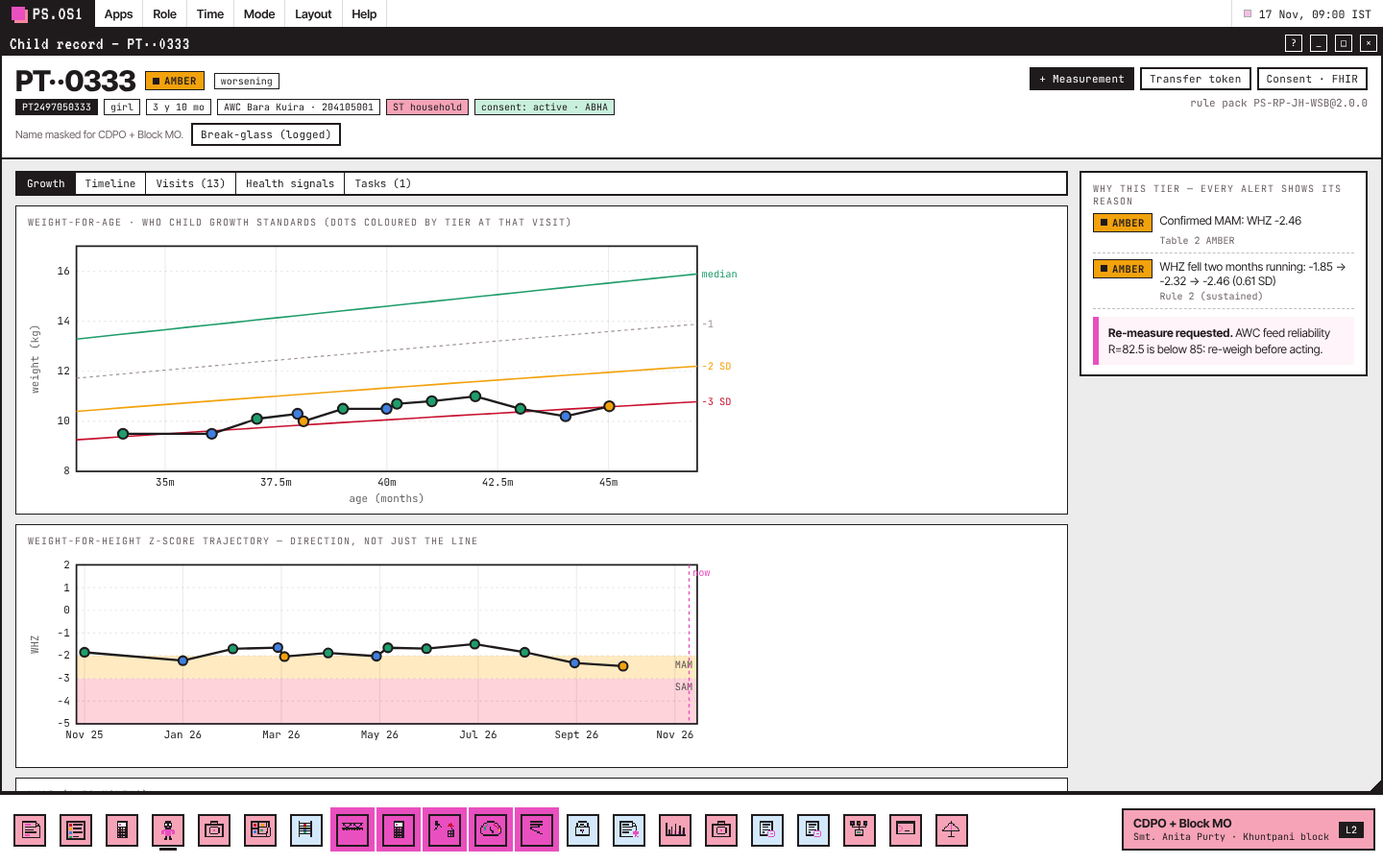
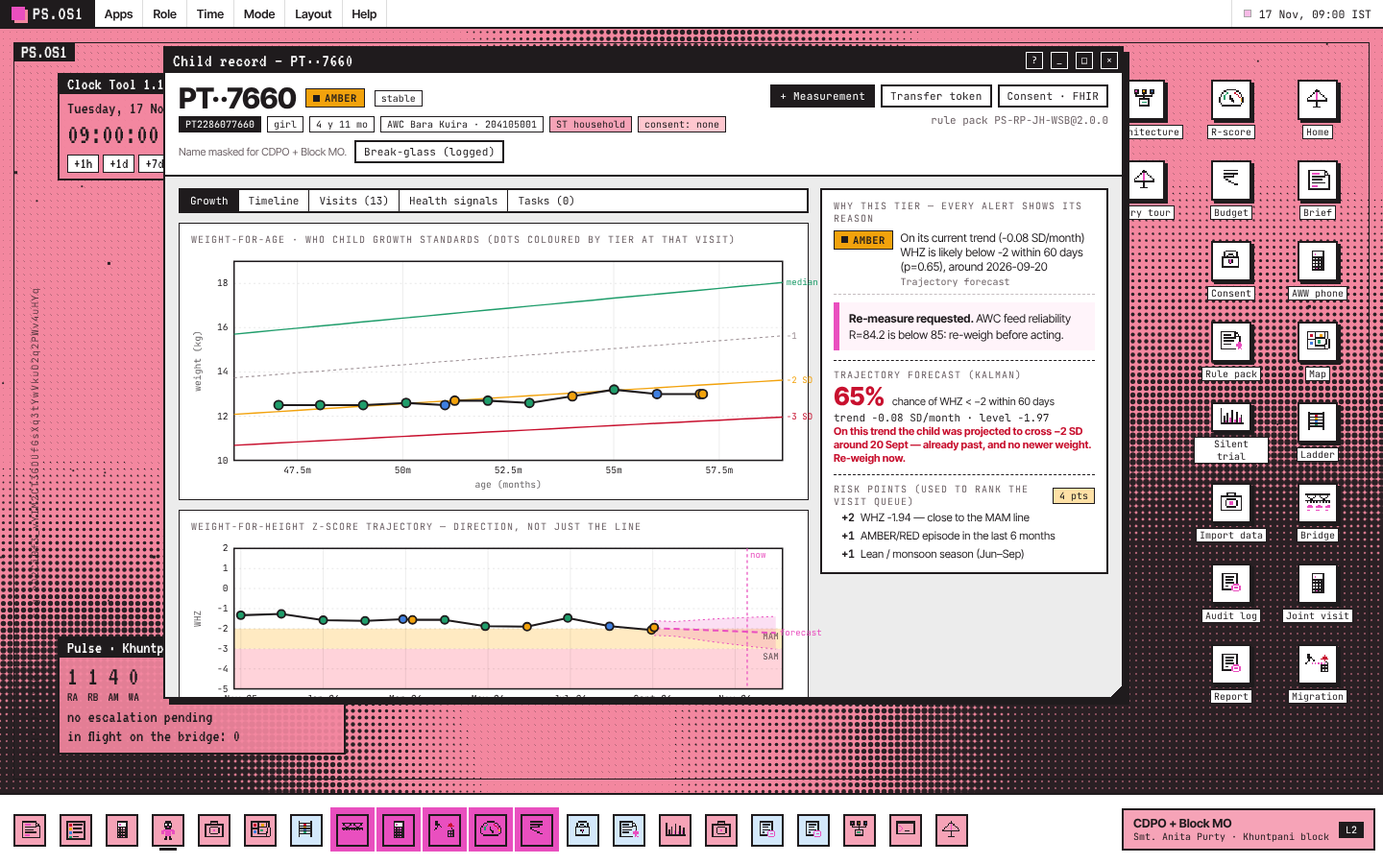
Docs + polish: refreshed numbers (6 seeds), Round 2 depth Q&A, README windows/engine/limits, new screenshots; readable ABDM sequence diagram
Claude-Session: https://claude.ai/code/session_01H5NQY22v1egzwKcLKCXRGs

diff --git a/app/ui/apps/consent.js b/app/ui/apps/consent.js
@@ -14,7 +14,7 @@ export function jsonView(obj) {
     .replace(/("(?:[^"\\]|\\.)*")(\s*:)/g, '<span style="color:#e94fbf">$1</span>$2')
     .replace(/: ("(?:[^"\\]|\\.)*")/g, ': <span style="color:#9fe0b8">$1</span>')
     .replace(/: (-?\d+\.?\d*|true|false|null)/g, ': <span style="color:#ffd27a">$1</span>');
-  return h('pre', { html, style: { margin: 0, padding: '10px', background: 'var(--ink)', color: '#f2eef0', fontFamily: 'var(--font-mono)', fontSize: '11px', lineHeight: 1.45, overflow: 'auto', maxHeight: '100%' } });
+  return h('pre', { html, style: { margin: 0, padding: '10px', background: 'var(--ink)', color: '#f2eef0', fontFamily: 'var(--font-mono)', fontSize: '11px', lineHeight: 1.45, overflow: 'auto', maxHeight: '100%', whiteSpace: 'pre-wrap', overflowWrap: 'anywhere' } });
 }
 
 const DPDP = [
@@ -91,17 +91,17 @@ export default {
         h('button.btn.sm.ghost', { disabled: hieBusy, onclick: () => runHie(c, false) }, 'Guardian denies'),
         h('span.small', null, 'v0.5 gateway shapes · X25519 ECDH + HKDF-SHA256 + AES-256-GCM (Fidelius-style) · simulated network, real crypto'));
       if (!hie || hie.childId !== c.id) return h('div', null, top, h('div.empty', null, 'Run the exchange to see every message between PoshanSetu, the consent manager, the guardian and U-WIN.'));
-      const W = 760, rowH = 26, H = 50 + hie.log.length * rowH;
-      const X = (l) => 90 + lanes.indexOf(l) * ((W - 140) / 3);
+      const W = 600, rowH = 26, H = 50 + hie.log.length * rowH;
+      const X = (l) => 66 + lanes.indexOf(l) * ((W - 132) / 3);
       const svg = s('svg', { viewBox: `0 0 ${W} ${H}`, width: '100%', style: 'display:block;max-width:900px;font-family:var(--font-mono)' });
       svg.append(s('defs', null, s('marker', { id: 'ha', viewBox: '0 0 10 10', refX: 9, refY: 5, markerWidth: 6, markerHeight: 6, orient: 'auto' }, s('path', { d: 'M0,0 L10,5 L0,10 z', fill: '#1f1b1d' }))));
-      for (const l of lanes) { svg.append(s('rect', { x: X(l) - 70, y: 4, width: 140, height: 26, fill: l === 'HIU' ? '#e94fbf' : '#1f1b1d' }), s('text', { x: X(l), y: 21, 'text-anchor': 'middle', 'font-size': 10, fill: '#fff' }, laneName[l]), s('line', { x1: X(l), x2: X(l), y1: 30, y2: H, stroke: '#1f1b1d', 'stroke-dasharray': '3 3', 'stroke-opacity': 0.4 })); }
+      for (const l of lanes) { svg.append(s('rect', { x: X(l) - 62, y: 4, width: 124, height: 26, fill: l === 'HIU' ? '#e94fbf' : '#1f1b1d' }), s('text', { x: X(l), y: 21, 'text-anchor': 'middle', 'font-size': 9.5, fill: '#fff' }, laneName[l]), s('line', { x1: X(l), x2: X(l), y1: 30, y2: H, stroke: '#1f1b1d', 'stroke-dasharray': '3 3', 'stroke-opacity': 0.4 })); }
       hie.log.forEach((m, i) => {
         const y = 48 + i * rowH, x1 = X(m.from), x2 = X(m.to);
         const g = s('g', { style: 'cursor:pointer' });
         g.append(s('rect', { x: Math.min(x1, x2) - 4, y: y - 14, width: Math.abs(x2 - x1) + 8, height: 22, fill: i === hieSel ? '#d3e8fb' : 'transparent' }));
         g.append(s('line', { x1, x2: x2 + (x2 > x1 ? -4 : 4), y1: y, y2: y, stroke: m.api.includes('transfer') ? '#e94fbf' : '#1f1b1d', 'stroke-width': m.api.includes('transfer') ? 3 : 1.5, 'marker-end': 'url(#ha)' }));
-        g.append(s('text', { x: (x1 + x2) / 2, y: y - 4, 'text-anchor': 'middle', 'font-size': 9.5 }, `${m.seq}. ${m.api.replace('POST ', '')}`));
+        g.append(s('text', { x: Math.min(x1, x2) + 8, y: y - 4, 'text-anchor': 'start', 'font-size': 9.5, stroke: '#fff', 'stroke-width': 3, 'paint-order': 'stroke', 'stroke-linejoin': 'round' }, `${m.seq}. ${m.api.replace('POST ', '')}`));
         g.addEventListener('click', () => { hieSel = i; render(); });
         svg.append(g);
       });

diff --git a/README.md b/README.md
@@ -15,6 +15,8 @@ This repository is a working prototype of the Round 1 proposal. It also answers,
 | ![Fix 03 Migration](docs/screens/migration.png) **Fix 03** kiln-proof token | ![Fix 04 R-score](docs/screens/reliability.png) **Fix 04** weighted R-score |
 | ![Fix 05 Budget](docs/screens/budget.png) **Fix 05** honest cost model | ![Silent trial](docs/screens/trial.png) Silent-trial backtest |
 | ![Child record](docs/screens/child.png) Child record | ![Jury tour](docs/screens/tour.png) Jury tour presenter mode |
+| ![Trade-off curve](docs/screens/tradeoff.png) Precision–detection trade-off curve | ![ABDM exchange](docs/screens/hie.png) ABDM HIE consent + encrypted transfer |
+| ![Made it smarter](docs/screens/smarter.png) Round 2 depth, each card opens its proof | ![AWW app](docs/screens/pwa.png) Hindi-first offline AWW app (PWA) |
 
 ---
 
@@ -37,6 +39,18 @@ npm test             # engine tests (WHO z-scores, rules, closure, escalation, t
 ```
 
 ```bash
+npm run typecheck    # TypeScript checks the engine's JSDoc types (no build step)
+```
+
+```bash
+npm run pwa          # companion service + AWW phone app at http://<LAN-IP>:8080/pwa/ (open on a phone on the same Wi-Fi)
+```
+
+```bash
+npm run build:tradeoff   # re-run the threshold sweep and ablation behind the Trade-off curve (3 seeds)
+```
+
+```bash
 npm run smoke        # with `npm run serve` running: every window × every role + live interactions in Chromium
 ```
 
@@ -44,13 +58,15 @@ npm run smoke        # with `npm run serve` running: every window × every role 
 npm run dist:win     # Windows x64 folder build in dist/ (also dist:linux, dist:mac)
 ```
 
+CI runs the type check, the tests and the Chromium smoke test on every push. Pushing a `v*` tag builds the Windows package on GitHub Actions and attaches the zip to the release (`.github/workflows/windows.yml`).
+
 On Windows, after `npm run dist:win`, double-click `dist\PoshanSetu-win32-x64\PoshanSetu.exe`. Copy that whole folder to the presentation laptop; it runs fully offline. The app adds `--no-sandbox` by itself when started as root on Linux.
 
 Deep links: `#worklist`, `#bridge`, `#joint`, `#migration`, `#reliability`, `#budget`, `#trial`, `#arch`, or `#jury` for presenter mode.
 
 ## The 10-minute presentation: Jury tour
 
-Open **Layout → Jury tour** (or press `j`). It has 12 steps with timings and talking points on a caption bar. Use `→` / `←` to move. Each step opens the right window, sets the role and, where needed, runs the live demo (a RED-A event crossing the bridge).
+Open **Layout → Jury tour** (or press `j`). It has 16 steps with timings and talking points on a caption bar. Use `→` / `←` to move. Each step opens the right window, sets the role and, where needed, runs the live demo (a RED-A event crossing the bridge).
 
 ## What is in the box
 
@@ -58,23 +74,24 @@ Open **Layout → Jury tour** (or press `j`). It has 12 steps with timings and t
 |---|---|---|
 | **Home** | Landing page, live silent-trial numbers, the five fixes | — |
 | **Brief** | Round 2 storyline: problem (cited figures), ecosystem table, stakeholder personas, roadmap Gantt + feasibility, Table 5 impact | sections 1–6 |
-| **Worklist** | Role-scoped tasks: tier, reason, event-time clock, escalation level, two-role closure, queue, late-arrival and re-measure flags | 4.4, 4.6 |
-| **Child record** | WHO weight-for-age curves, WHZ trajectory, MUAC, "why this tier", visits with ingest lag, consented vs withheld signals, break-glass | 4.2–4.4 |
+| **Worklist** | Role-scoped tasks: tier, reason, event-time clock, escalation level, two-role closure, **risk-ranked queue** (explainable risk points), late-arrival and re-measure flags, CSV export; aggregate-only for DPO | 4.4, 4.6 |
+| **Child record** | WHO weight-for-age curves, WHZ trajectory with a **Kalman forecast cone** (P(WHZ < −2 in 60 days)), risk points, timeline, MUAC, "why this tier", visits with ingest lag, consented vs withheld signals, break-glass | 4.2–4.4 |
+| **AWW app (PWA)** | `app/pwa/`: installable, offline, **Hindi-first** phone app running the same engine: today's visits, weigh with live tier, reasons in Hindi, idempotent sync to the service (`POST /v1/device/events`). Opens from Home → "Then we made it smarter" | audit 1, 4.2 |
 | **AWW phone** | Offline-first device: queue measurements with no signal, sync later — clocks still count from measurement; late data escalates on arrival | audit 1 |
 | **Capture** | AWW entry with live preview of the rule outcome and entry-time validation (decimal-slip demo) | 4.2, 4.7 |
 | **Map** | District → block → AWC, worst open task tier, reliability flags, k-anonymity above block | 4.6 |
 | **Ladder** | Table 3 as code: L0 AWW/ASHA → L1 Mukhya Sevika → L2 CDPO+BMO → L3 DPO+CMO | 4.6 |
 | **Bridge** | **Fix 01:** event bridge vs batch exports, clock-safety matrix, counterfactual replay, live in-flight events | audit 1 |
-| **Joint visit** | **Fix 02:** asynchronous AWW + ASHA closure state machine, visit-window timeline, feature-phone IVR (DTMF 1–4; Hindi, English, Santali, Ho, Mundari) | audit 2 |
+| **Joint visit** | **Fix 02:** asynchronous AWW + ASHA closure state machine, visit-window timeline, feature-phone IVR (DTMF 1–4) with **recorded Hindi prompts** (`app/assets/ivr/`); Santali, Ho and Mundari await native speakers | audit 2 |
 | **Migration** | **Fix 03:** Ed25519 transfer token (QR + IVR short code) verified offline, tamper test, kiln scenario fallback ladder, Aadhaar eKYC / Face RD lookup, k-anonymous route notice | audit 3 |
 | **R-score** | **Fix 04:** risk-weighted reliability vs the Round 1 equal-weight formula, calibration sliders, digit histograms, chronic-D logic | audit 4 |
 | **Budget** | **Fix 05:** Rs 33 L pilot, what Rs 12 L actually buys, reuse of DPI blocks, per-child cost vs scale, Phase 3 capex line | audit 5 |
-| **Consent** | ABDM consent artefacts, NDGFP flag dictionary, DPDP timeline, revoke/renew with live re-triage, FHIR R4 bundle | 4.3, 4.7 |
+| **Consent** | ABDM consent artefacts, **HIE exchange in real ABDM v0.5 message shapes** (consent-requests/init → hip/notify → health-information/request → X25519 + HKDF + AES-GCM transfer → notify), NDGFP flag dictionary, DPDP timeline, revoke/renew with live re-triage, FHIR R4 bundle | 4.3, 4.7 |
 | **Rule pack** | Dual-signed (MoWCD + MoHFW) versioned pack, calibration sliders, re-run the whole backtest, sign the draft as each ministry | design choice 5 |
-| **Trial** | Silent-trial backtest: share of SAM flagged earlier, lead-time distribution, precision, a worked example | design choice 2, Table 5 |
+| **Trial** | Silent-trial backtest: share of SAM flagged earlier, lead-time distribution, precision, a worked example. **Trade-off curve** (every threshold swept on 3 seeds, Pareto frontier, hover to compare, click to draft a rule pack) and **Ablation** (each rule kept only if it raised strict detection at ≥ 55% precision) | design choice 2, Table 5 |
 | **Report** | Monthly district convergence report (L3), k-anonymous, print / save PDF | 4.6 |
-| **Import** | Phase 1 tool: load an anonymised CSV export; the same signed rules run locally (tiers, reliability per AWC, lead vs single-reading lists); template download | Table 4 Phase 1 |
-| **Audit** | Hash-chained log of every view, capture, break-glass, consent and signing; tamper detection | 4.7 |
+| **Import** | Phase 1 tool: load an anonymised CSV export; the same signed rules run locally (tiers, reliability per AWC, lead vs single-reading lists); template download. Runs on **two real public SMART surveys** with a plausibility report (SMART digit-preference score, SD of WHZ, flagged values) | Table 4 Phase 1 |
+| **Audit** | Session is an event journal, replayed on restart with an identical chain head. Hash-chained log of every view, capture, break-glass, consent and signing; tamper detection | 4.7 |
 | **Architecture** | L1 → L4 diagram, where each block lives in the code, the three Theme 1 questions mapped to modules | 4.1 |
 | **Shell** | `triage`, `tasks late`, `advance 2d`, `verify pack`, `verify audit`, `fhir`, `role` … | — |
 
@@ -105,19 +122,25 @@ npm run service      # http://localhost:8080/health
 ## Engine (`app/engine/`, no dependencies, runs in Node and the browser)
 
 - `growth.js`: WHO Child Growth Standards 2006 LMS z-scores (WAZ, HAZ, WHZ). Uses WHO's restricted method beyond ±3 SD and the 0.7 cm length/height adjustment. Also flags biologically implausible values (BIV). The tables in `who-lms.js` are generated by `scripts/build-who.mjs`.
-- `triage.js`: Rules 1–3, RED-A/RED-B/AMBER/WATCH, infant velocity (two low gains in a row), trend plus consented signal, two WATCH in a row become AMBER, same-day discrepancy, BIV quarantine, episode logic. Every result carries its reasons and the pack version.
+- `velocity.js` + `who-velocity.js`: official WHO 2009 weight-velocity LMS(δ) tables (1- and 2-month increments, built by `scripts/build-velocity.py`); 490 published centiles reproduced to 1 g in `test/velocity.test.js`. `test/zscore-validation.test.js` checks z-scores against five public SMART surveys.
+- `forecast.js`: Kalman local-linear-trend filter on monthly WHZ → probability of crossing −2 SD within the horizon.
+- `risk.js`: explainable additive risk points, used for the WEAK_SIGNALS rule and for ranking the visit queue.
+- `abdm.js`: the ABDM HIE consent and data-transfer flow with real cryptography (X25519 ECDH, HKDF-SHA256, AES-256-GCM).
+- `importcsv.js`: CSV import, SMART survey detection and plausibility report.
+- `triage.js`: Rules 1–3, RED-A/RED-B/AMBER/WATCH, infant and 12–24-month velocity on the WHO 2009 tables, Kalman forecast, combined weak signals, trend plus consented signal, two WATCH in a row become AMBER, same-day discrepancy, BIV quarantine, episode logic. Every result carries its reasons and the pack version.
 - `rulepack.js` + `signing.js`: every threshold lives in a versioned pack signed with Ed25519 by both ministries (demo keys).
 - `tasks.js`: tasks, two-role asynchronous closure, CMAM milestones for RED-B (appetite test and MO screening), the 2-per-AWC visit cap with ranked queue, and escalation on **measurement time** with late-arrival detection.
 - `bridge.js`: adapters (API Setu webhook, SMS flash, batch export), lag models, clock-safety test, and an idempotent append-only event store with watermarks.
-- `reliability.js`: weighted R-score (`R = 100 × (1 − min(1, 4·B + 1·F + 0.3·D·chronic))`). Digit preference is corrected for sample size.
+- `reliability.js`: weighted R-score (`R = 100 × (1 − min(1, 4·B + 1·F + 0.3·D·chronic))`). Digit preference is corrected for sample size, and the SMART digit-preference score (DPS) is reported for weight and height.
 - `migration.js`: signed offline-verifiable tokens, Crockford short codes with a check character, registry lookup by short code or a salted UID-token hash (no Aadhaar numbers), recovery ladder, LTFU rule, and k-anonymous routes.
 - `consent.js`, `fhir.js`, `audit.js`, `access.js`: consent artefacts and gating, FHIR R4 WellnessRecord bundles, the hash-chained audit log, and Table 3 decision rights.
-- `simulate.js`: a synthetic Paschimi Singhbhum pilot (3 blocks, 36 AWCs, 1,440 children, 12 months), tuned to NFHS-5 and NITI-IFPRI district levels. It includes migration, data-quality personalities, vaccines, consent, and an engine-in-the-loop re-measure. It also runs the silent-trial backtest.
+- `simulate.js` (facade over `sim/constants.js`, `population.js`, `history.js`, `analyse.js`, `metrics.js`): a synthetic Paschimi Singhbhum pilot (3 blocks, 36 AWCs, 1,440 children, 12 months), tuned to NFHS-5 and NITI-IFPRI district levels. It includes migration, data-quality personalities, vaccines, consent, and an engine-in-the-loop re-measure. It also runs the silent-trial backtest.
 
 ## Honest limits
 
 - Children, names and records are **synthetic**. Lead time and precision come from a simulation, not from field data. Phase 1 repeats the backtest on anonymised Tracker exports under a state agreement.
-- The infant 15th-centile velocity values are approximations of the WHO 2009 velocity standards, marked as prototype values in the rule pack.
+- The only real data are two cross-sectional SMART surveys (public, GPL-3 from nipnTK). No public longitudinal child-growth dataset exists, so trend rules are validated on simulation only.
+- Hindi IVR audio is synthesised (espeak-ng); Santali, Ho and Mundari prompts need native speakers and are placeholders.
 - The Poshan Tracker Open API, ABDM gateway, UIDAI eKYC, Bhashini and telecom calls are **simulated** behind the same interfaces a pilot would use.
 - The signing keys are demo keys, published so anyone can verify signatures.
 

diff --git a/docs/JURY_QA.md b/docs/JURY_QA.md
@@ -42,9 +42,10 @@ Each answer is short enough to say in the 5-minute interaction, and each points 
 **Won't this flood AWWs with alerts?** There are three guards. Confirmation by re-weigh is needed before AMBER. Episode logic means a recurring dip within 60 days is follow-up, not a new visit. And there is a cap of 2 new AMBER visits per AWC per month, with a ranked queue that escalates at day 10. The backtest is honest that the cap binds in many AWC-months at 30% wasting. That is exactly why we rank the queue, and it is a Phase 1 calibration point.
 
 **What is the evidence it works?** The silent-trial backtest (Trial window) runs on synthetic data tuned to district levels. Quote it honestly, in two parts:
-- *Against the Tracker's SAM list:* about 69% of children who reached it were flagged AMBER first, a median of about 87 days earlier, with precision of about 60%. The Table 5 hypotheses were at least 50% and a median of at least 30 days.
-- *Against the Tracker's first listing of any kind (MAM or SAM):* 12–21% were flagged before the Tracker listed them at all (about 55 days earlier in the main run). That is the pure value of the trend rules (Rule 2, sustained fall, infant velocity, trend plus signal). For the rest, the gain is not detection but **action**: a MAM listing in the Tracker today has no owner, deadline or escalation, and in PoshanSetu it becomes a confirmed task with a clock.
-- Robustness: across 6 independently generated districts (Trial → Robustness) the figures stay within 67–73% flagged earlier, a median of 84–104 days, and 59–63% precision. It is not one lucky run.
+- *Against the Tracker's SAM list:* about 66% of children who reached it were flagged AMBER first, a median of about 66 days earlier in the main run, with precision of about 57%. The Table 5 hypotheses were at least 50% and a median of at least 30 days.
+- *Against the Tracker's first listing of any kind (MAM or SAM):* 21–29% were flagged before the Tracker listed them at all (Round 1 rules: about 17%). That is the pure value of the trend rules (Rule 2, sustained fall, WHO 2009 velocity, the Kalman forecast and combined weak signals). For the rest, the gain is not detection but **action**: a MAM listing in the Tracker today has no owner, deadline or escalation, and in PoshanSetu it becomes a confirmed task with a clock.
+- Robustness: across 6 independently generated districts (Trial → Robustness) the figures stay within 61–75% flagged earlier, a median of 66–98 days, and 54–57% precision. It is not one lucky run.
+- Every rule had to earn its place (Trial → Ablation): it was kept only if it raised the strict figure without pushing precision below 55%. A MUAC-trend rule failed that test and ships switched off.
 - Phase 1 repeats both on anonymised real data, and the first 8 live weeks run silent.
 
 **Couldn't the Tracker just add a MAM alert and get most of this?** It would get the list, not the loop. The loop is confirmation by re-weigh (fewer false alerts), a named AWW and ASHA task, a deadline counted from measurement, escalation to people who can act, and closure that needs both workers. The trend rules add children who are not on any list yet.
@@ -79,3 +80,17 @@ The Bridge window's clock-safety matrix is how we decide which path may drive wh
 **Can you run this on real data?** Yes, today. The Import window (`i`) takes an anonymised CSV export with one row per measurement: ref, sex, dob, AWC code, date, weight, height, MUAC, oedema. It runs the same signed rules locally, with no upload, and reports tiers, reliability per AWC, and how often AMBER fires before a single-reading list would. That is the Phase 1 calibration step, ready for a State or NGO dataset.
 
 **How many SAM cases would this prevent?** We don't claim a number. The effect of a visit and ration review has to come from CMAM/SSBSK evidence and the pilot's comparison blocks. The Brief → Impact tab shows the mechanism as a clearly labelled scenario. On the simulated true trajectories, 89% of true SAM episodes had an AMBER alert first. *If* acting lifted WHZ by 0.15 SD a month for three months and 80% of alerts were acted on, about half of those episodes would not have happened (the zero-effect baseline is subtracted). The point is that lead time creates room for an effect. Phase 3 measures the real effect.
+
+## Questions about the Round 2 depth
+
+**Why should a judge trust the z-scores?** They are tested, not assumed. WAZ and HAZ match the reference values in five public SMART surveys exactly; WHZ matches in at least 93% of cases, never off by more than 0.25 SD (the difference is the lying/standing convention near 87 cm). The infant and 12–24-month velocity rules use the official WHO 2009 weight-velocity tables; the test suite reproduces 490 published centiles to within 1 g.
+
+**What is the forecast, in one sentence?** A Kalman local-linear-trend filter on the child's monthly WHZ, which gives the probability of falling below −2 SD within 60 days, with an uncertainty cone on the chart. It raises AMBER only when that probability is at least 50% and there are at least three readings, and the reason is shown in words.
+
+**What happens when there are more AMBER children than visits?** The queue is ranked by explainable risk points (near the MAM line, falling, under 2, low birth weight, prior episode, lean season, back from migration…). In the backtest, risk ranking puts 44–57% of the children who later became SAM into the visits that fit under the cap, against 21–43% when ranking by age alone.
+
+**Why not just lower the thresholds and catch more?** The Trade-off curve shows the cost. More aggressive packs reach about 33% strict detection, but precision falls below 50%: more than half of home visits would find a child who was going to be fine. The shipped pack is the furthest point on the frontier that stays above 55%.
+
+**Has it seen real data?** Not real longitudinal Tracker data: none is public. Two real SMART cross-sectional surveys run through the Import window, and it reports what a district would see on its first extract: digit preference (SMART DPS), SD of WHZ and flagged values. One survey fails the SD check and the other fails on height digit preference. That is the reason the R-score exists.
+
+**Does it work without signal?** The AWW app is an installable PWA (open `/pwa/` from the companion service). It runs the same engine on the phone, works offline, shows reasons in Hindi, and syncs with idempotent event IDs so a retry never makes a duplicate. IVR prompts are real recorded Hindi audio. Ho, Santali and Mundari still need native speakers, so those prompts are placeholders.

diff --git a/docs/OVERNIGHT_REPORT.md b/docs/OVERNIGHT_REPORT.md
@@ -38,13 +38,25 @@ Added later in the night:
 - **Mode → Regenerate district:** a new random seed, to show nothing is hard-coded.
 - **Scale benchmark** (`npm run bench`, and `bench` in the Shell): about 28 µs per child for a full re-triage.
 
+## Round 2 depth (the "make it smarter" pass)
+
+- **Smarter rules, each accepted only on evidence:** WHO 2009 weight velocity (official tables) for infants and 12–24 months, a Kalman trajectory forecast, and combined weak signals (explainable risk points ≥ 7). MUAC trend was tested and **rejected** (it lowered precision for no strict gain). See Trial → Ablation.
+- **Trade-off curve:** every threshold swept on 3 seeds; Pareto frontier; hover to compare with the shipped pack; click to draft a rule pack.
+- **Risk-ranked visit queue:** when the visit cap binds, risk ranking captures 44–57% of eventual SAM children in the visits that fit, against 21–43% for age ranking.
+- **Validation:** 490 WHO velocity centiles to within 1 g; z-scores against five public SMART surveys; SMART digit-preference score in the R-score.
+- **Real data:** two public SMART surveys in the Import window, with a plausibility report.
+- **AWW app (PWA):** installable, offline, Hindi-first, same engine on the phone, idempotent sync. Recorded Hindi IVR prompts.
+- **ABDM HIE flow** in real v0.5 message shapes with real X25519 / HKDF / AES-GCM encryption.
+- **Persistence:** the session is an event journal replayed on restart (identical audit chain head).
+- **Engineering:** `simulate.js` split into `sim/*`; JSDoc types checked by `tsc` in CI; Chromium smoke test in CI; Windows build attached to tagged releases.
+
 ## Honest findings worth knowing before the finals
 
-- **Lead time:** about 69% of children who reached the Tracker's SAM list were flagged AMBER first, a median of about 87 days earlier. Across 5 more districts the range is 67–73% and 84–104 days.
-- **Stricter test:** only 12–21% were flagged before the Tracker listed them *at all* (MAM or SAM). Most of the early warning is a confirmed MAM that the Tracker would also list, but without an owner, deadline or escalation. I added a "sustained fall" rule (two monthly falls adding up to 0.5 SD), which raised the strict figure from 12% to 21%. Both numbers are in the Trial window and the Q&A. Say this before a judge finds it.
+- **Lead time:** about 66% of children who reached the Tracker's SAM list were flagged AMBER first, a median of about 66 days earlier (main run). Across 5 more districts the range is 61–75% and 66–98 days, at 54–57% precision.
+- **Stricter test:** 21–29% were flagged before the Tracker listed them *at all* (MAM or SAM), up from about 17% with the Round 1 rules (seed-averaged ablation). Most of the early warning is a confirmed MAM that the Tracker would also list, but without an owner, deadline or escalation. I added a "sustained fall" rule (two monthly falls adding up to 0.5 SD), which raised the strict figure from 12% to 21%. Both numbers are in the Trial window and the Q&A. Say this before a judge finds it.
 - **Workload:** at 30% wasting, the "2 new AMBER visits per AWC per month" cap binds in about two-thirds of AWC-months. The ranked queue handles it, but cap calibration is a real Phase 1 question.
 - **Nightly-delta fallback** (if no Tracker API): clock-safe for WATCH, borderline for AMBER (p95 about 17 h against a 16.8 h budget). RED stays safe through SMS.
-- **Everything is synthetic.** The infant velocity centiles are approximations, flagged in the rule pack.
+- **Everything is synthetic** apart from the two SMART surveys in the Import window (cross-sectional, not Tracker data). Velocity now uses the official WHO 2009 tables.
 
 ## How to use it
 

diff --git a/docs/DEMO_SCRIPT.md b/docs/DEMO_SCRIPT.md
@@ -7,9 +7,10 @@ Start the app with `npm start` (or run the packaged build). Wait for the boot lo
 | 0:00 | The gap | Home is open. Scroll once to the giant "Do Not Wait…" headline. |
 | 0:40 | Who it is for | The Brief opens on Stakeholders. Point at the AWW and migrant-mother cards. |
 | 1:00 | Architecture | Click **Event bridge**, then **L3 Act**. Each shows its audit fix and code file. |
-| 2:00 | A child, explained | Point at the WHZ trajectory and the "Why this tier" panel (rule + pack version). |
+| 2:00 | A child, explained | Point at the WHZ trajectory, the pink forecast cone, and the "Why this tier" panel (rule + pack version + risk points). |
 | 2:40 | Same child, two systems | The comparison replays by itself. Pause on the row where PoshanSetu says AMBER and the Tracker says "not listed". |
 | 3:00 | Silent trial | Read both numbers: flagged before the SAM list, and before *any* listing. Optionally press **Robustness** (takes about 4 s). |
+| 3:30 | Trade-off curve | Hover the pink square (shipped pack), then a big dot at the bottom right: catches more, but precision falls below 55%. One line: *every rule had to earn its place.* |
 | 4:00 | Fix 01 bridge | Toggle **Round 1 → Fallback → Round 2**. Point at the clock-safety matrix. |
 | 4:40 | Fix 01 live | A RED-A event is sent automatically. The toast shows it arriving by SMS flash with a 24 h deadline from measurement. |
 | 5:00 | Fix 01 offline | On the AWW phone: **Offline** → tap a child → tick oedema → **Save** → **+6 h** (×5) → **Online**. Open the Worklist: the task shows *late arrival* at L1. |
